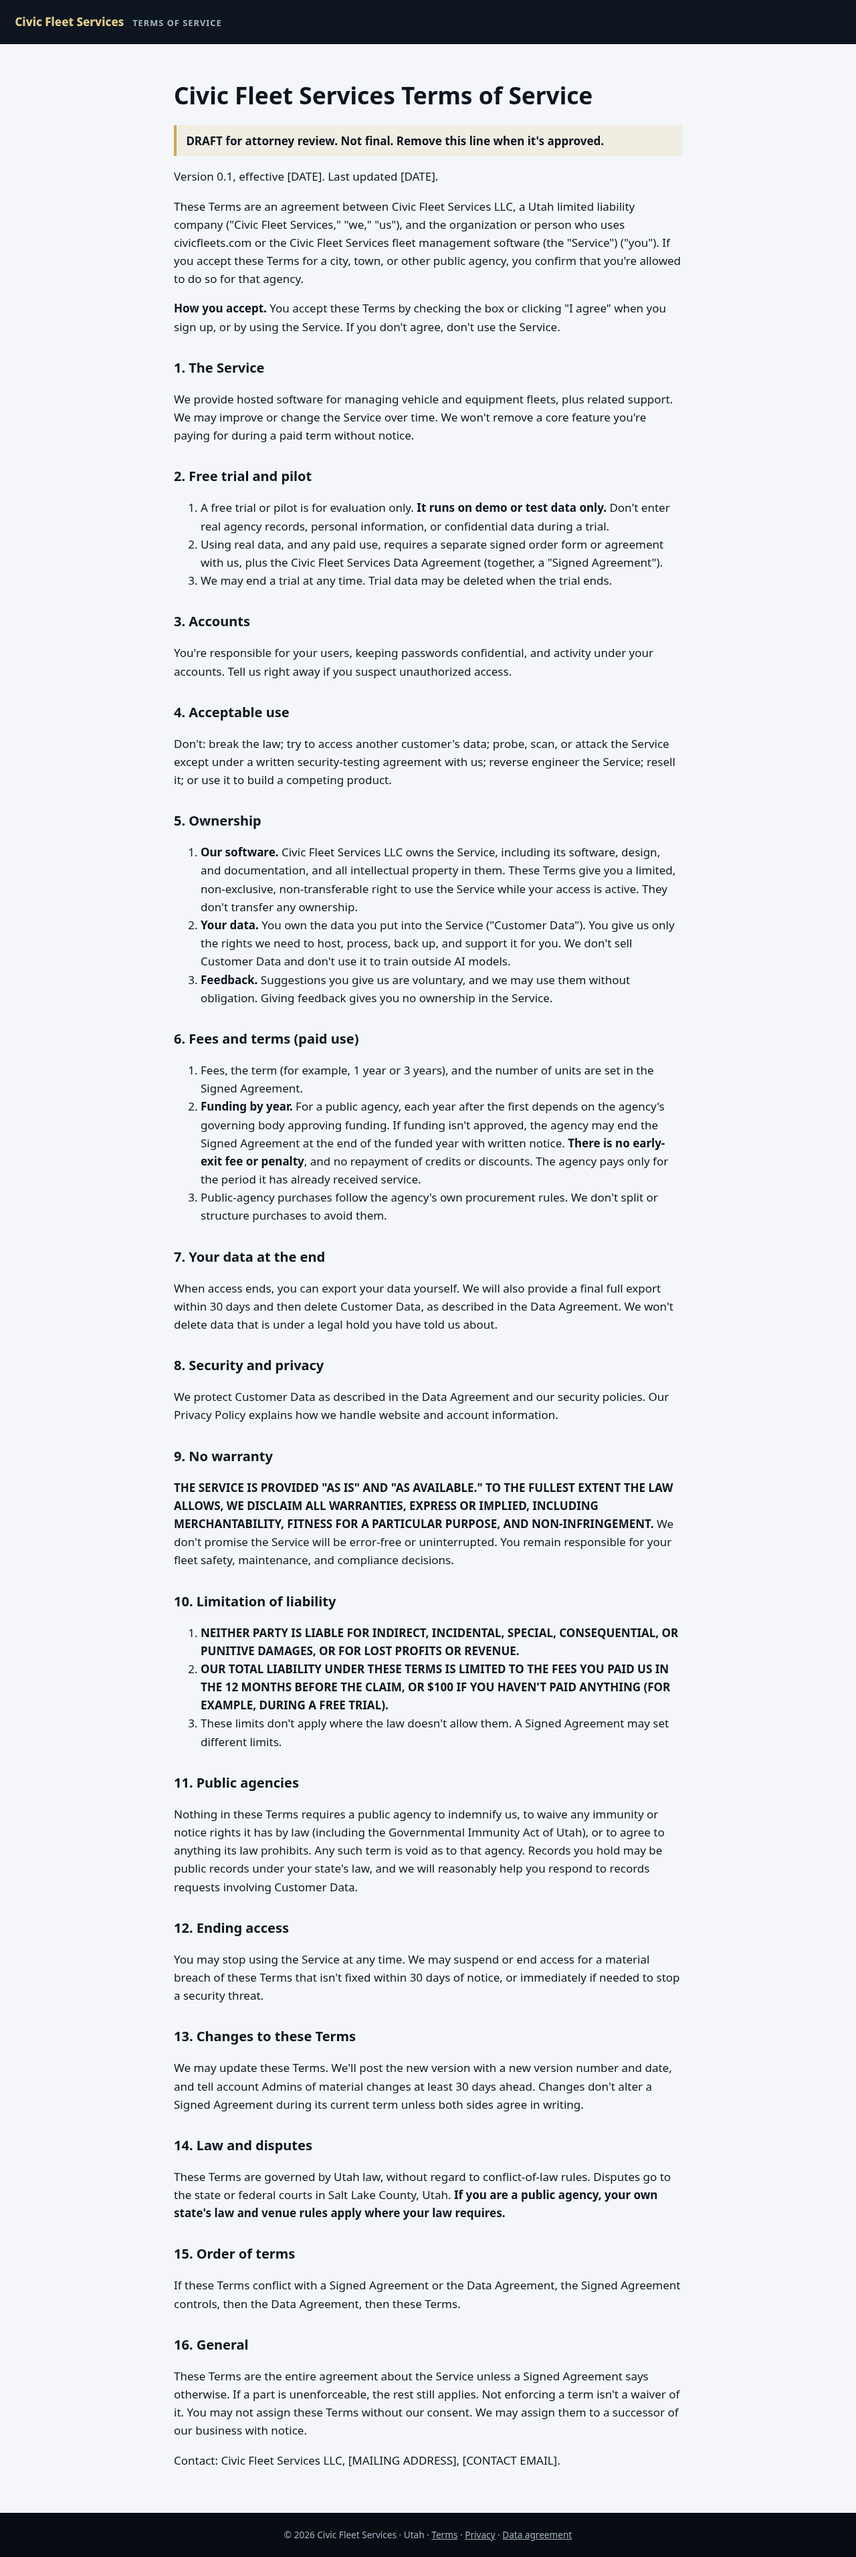
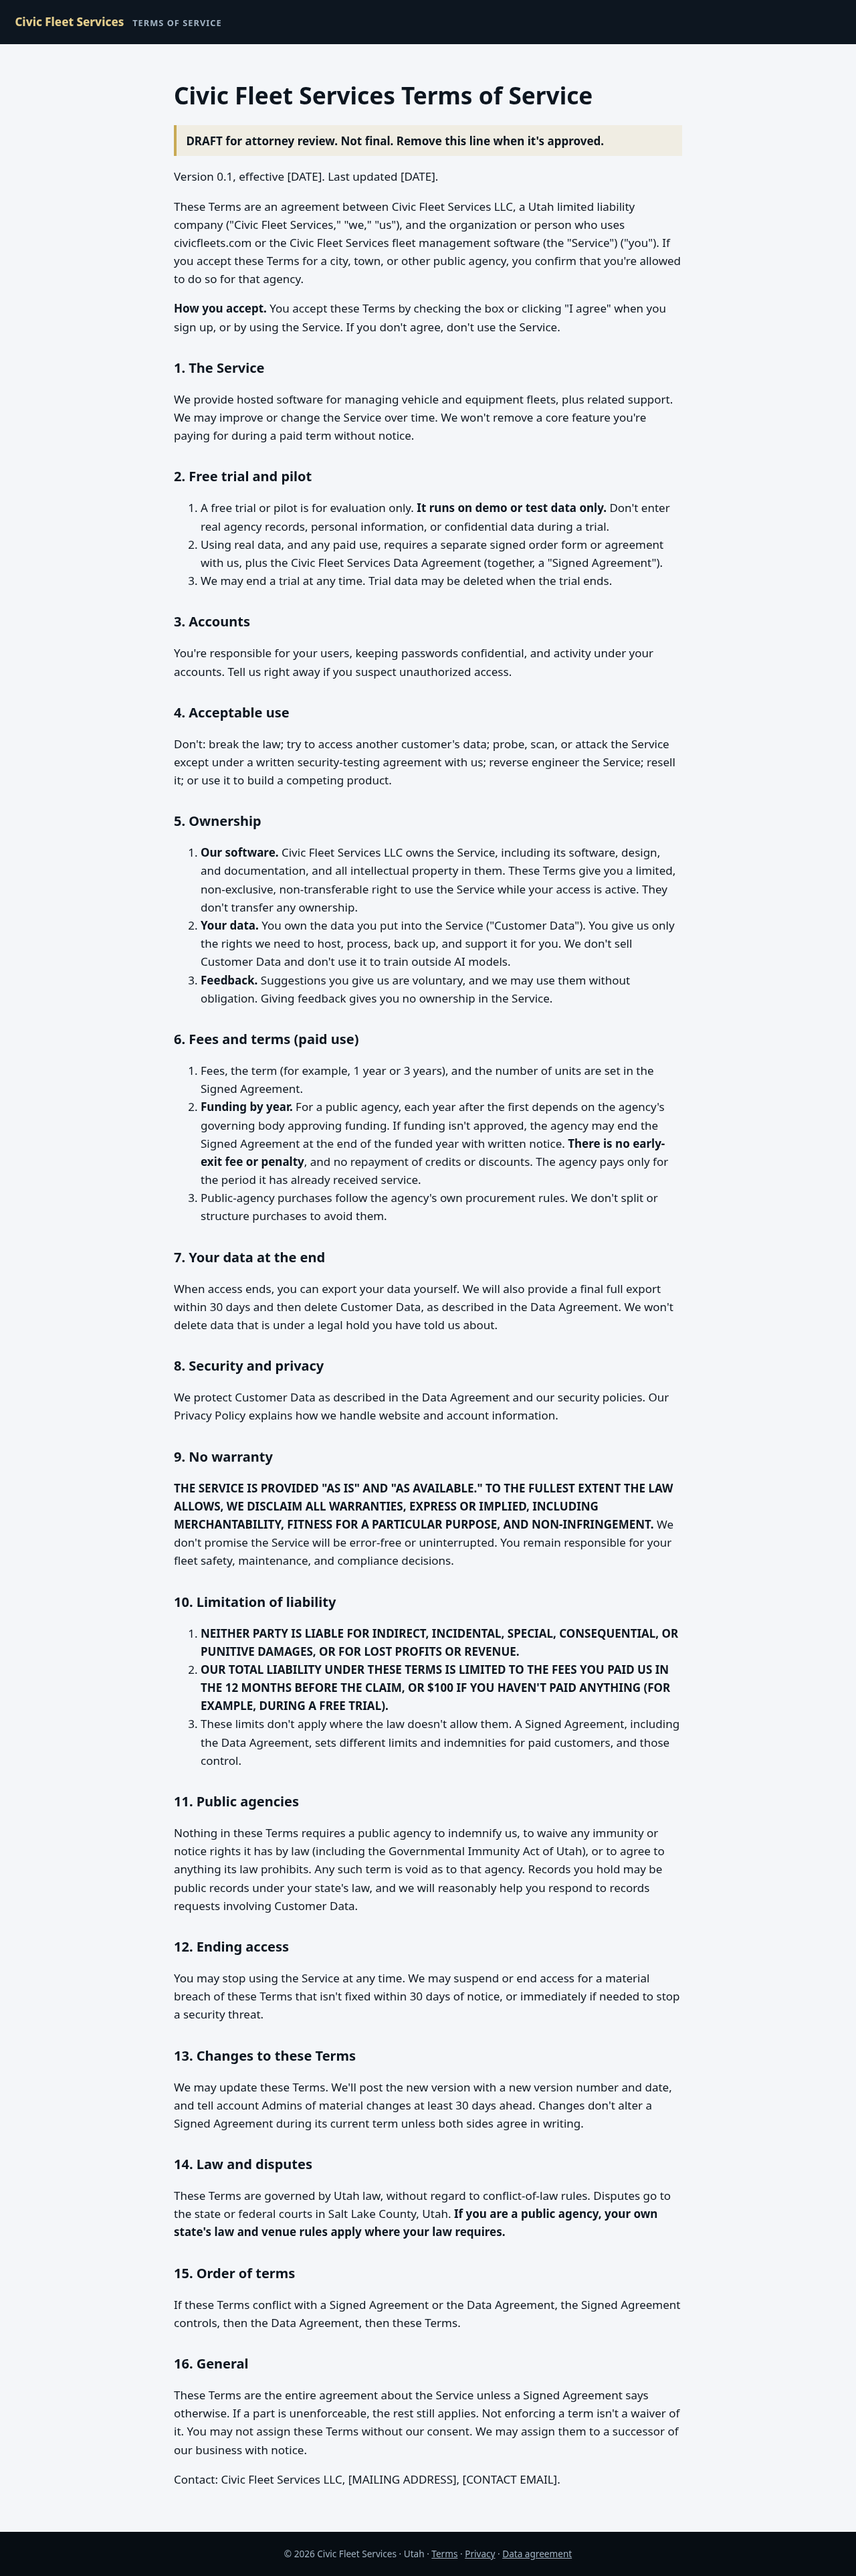
Re-render Terms and sample city data agreement from Saul's updated drafts (verbatim)

Changed region(s): [[0.1875, 0.0311, 0.7812, 0.9652], [0.5938, 0.0311, 0.625, 0.0623]]

diff --git a/data-agreement/index.html b/data-agreement/index.html
@@ -50,8 +50,24 @@ footer{background:#070d13;color:#a3b4c4;text-align:center;padding:1.4rem;font-si
 <li><strong>Deletion.</strong> After the City confirms it has its export, or 30 days after the final export is delivered, whichever comes first, Civic Fleet Services deletes City Data from the live system. Deleted data is gone from backups 7 days later. Civic Fleet Services sends the City a written deletion confirmation with the dates.</li>
 <li><strong>Legal holds and retention.</strong> Civic Fleet Services won't delete City Data while the City has given notice of a legal hold or a records-retention need. The City is responsible for its own records retention once it has its export.</li>
 </ol>
-<h2>7. Liability</h2>
-<p>The limits of liability in the Signed Agreement (or, if it has none, in the Civic Fleet Services Terms of Service) apply. <strong>[Attorney: consider whether a higher cap for data-security breaches is needed for city customers.]</strong> Nothing here requires the City to indemnify Civic Fleet Services or to waive any immunity or notice rights.</p>
+<h2>7. Liability, indemnity, and insurance</h2>
+<p><strong>[DRAFT for attorney review. Insurance limits must match the policies actually bound.]</strong></p>
+<ol>
+<li><strong>Civic Fleet Services defends the City.</strong> Civic Fleet Services will defend the City and its officers and employees against third-party claims, and pay any resulting judgments or settlements it approves, to the extent the claim arises from:<br />
+   a. a claim that the Service, as provided by Civic Fleet Services, infringes a U.S. patent, copyright, or trademark, or misappropriates a trade secret;<br />
+   b. a security incident involving City Data caused by Civic Fleet Services' breach of Section 3 or 4; or<br />
+   c. bodily injury or damage to tangible property caused by the negligence or willful misconduct of Civic Fleet Services or its personnel.</li>
+<li><strong>What's excluded.</strong> Item 1(a) doesn't cover claims caused by City Data, the City's changes to the Service, or use with things Civic Fleet Services didn't provide. If an infringement claim is made, Civic Fleet Services may change the Service so it doesn't infringe, get the right for the City to keep using it, or end the affected part and refund prepaid fees for the unused period.</li>
+<li><strong>How it works.</strong> The City notifies Civic Fleet Services promptly in writing. Civic Fleet Services controls the defense and settlement, but no settlement may admit fault for the City or bind the City without its consent. The City may use its own attorney at its own cost. This section doesn't limit the authority of the City's attorney or any official the law gives control of the City's legal matters.</li>
+<li><strong>Caps.</strong><br />
+   a. Each indemnity in item 1 is capped at the limit of the matching insurance: <strong>$1,000,000</strong> per occurrence for 1(c) (general liability), <strong>$1,000,000</strong> for 1(b) (cyber), and <strong>$2,000,000</strong> for 1(a) (technology errors and omissions), or the actual limits of insurance in force, if higher.<br />
+   b. For all other claims, each party's total liability is capped at the greater of the fees the City paid in the 12 months before the claim or <strong>$1,000,000</strong>.<br />
+   c. Neither party is liable for indirect, incidental, special, consequential, or punitive damages, or for lost profits, except to the extent those amounts are part of a third-party claim covered by item 1.<br />
+   d. The caps don't apply to fraud, willful misconduct, or anything else the law doesn't allow to be limited.</li>
+<li><strong>No City indemnity or waiver.</strong> The City doesn't indemnify Civic Fleet Services. Nothing here waives the City's immunities, defenses, or notice requirements, including under the Governmental Immunity Act of Utah or the City's own state's law.</li>
+<li><strong>Insurance.</strong> During the term, Civic Fleet Services will carry: commercial general liability of $1,000,000 per occurrence and $2,000,000 aggregate; technology errors and omissions of $2,000,000; cyber and privacy liability of $1,000,000; and hired and non-owned auto of $1,000,000 if it drives on City business. The City is named as additional insured on the general liability policy, which is primary and non-contributory and includes a waiver of subrogation in the City's favor. Civic Fleet Services gives a certificate of insurance before the City puts real data in the Service and gives 30 days' notice of cancellation. If Civic Fleet Services has no employees, a workers' compensation waiver is provided instead of coverage.</li>
+<li><strong>Free trials.</strong> For free trials and demo-data pilots, the Terms of Service apply instead, including the $100 cap.</li>
+</ol>
 <h2>8. Law</h2>
 <p>Utah law governs, unless the City's own state law requires its own law to apply.</p>
 <h2>Signatures</h2>

diff --git a/terms/index.html b/terms/index.html
@@ -53,7 +53,7 @@ footer{background:#070d13;color:#a3b4c4;text-align:center;padding:1.4rem;font-si
 <ol>
 <li><strong>NEITHER PARTY IS LIABLE FOR INDIRECT, INCIDENTAL, SPECIAL, CONSEQUENTIAL, OR PUNITIVE DAMAGES, OR FOR LOST PROFITS OR REVENUE.</strong></li>
 <li><strong>OUR TOTAL LIABILITY UNDER THESE TERMS IS LIMITED TO THE FEES YOU PAID US IN THE 12 MONTHS BEFORE THE CLAIM, OR $100 IF YOU HAVEN'T PAID ANYTHING (FOR EXAMPLE, DURING A FREE TRIAL).</strong></li>
-<li>These limits don't apply where the law doesn't allow them. A Signed Agreement may set different limits.</li>
+<li>These limits don't apply where the law doesn't allow them. A Signed Agreement, including the Data Agreement, sets different limits and indemnities for paid customers, and those control.</li>
 </ol>
 <h2>11. Public agencies</h2>
 <p>Nothing in these Terms requires a public agency to indemnify us, to waive any immunity or notice rights it has by law (including the Governmental Immunity Act of Utah), or to agree to anything its law prohibits. Any such term is void as to that agency. Records you hold may be public records under your state's law, and we will reasonably help you respond to records requests involving Customer Data.</p>
